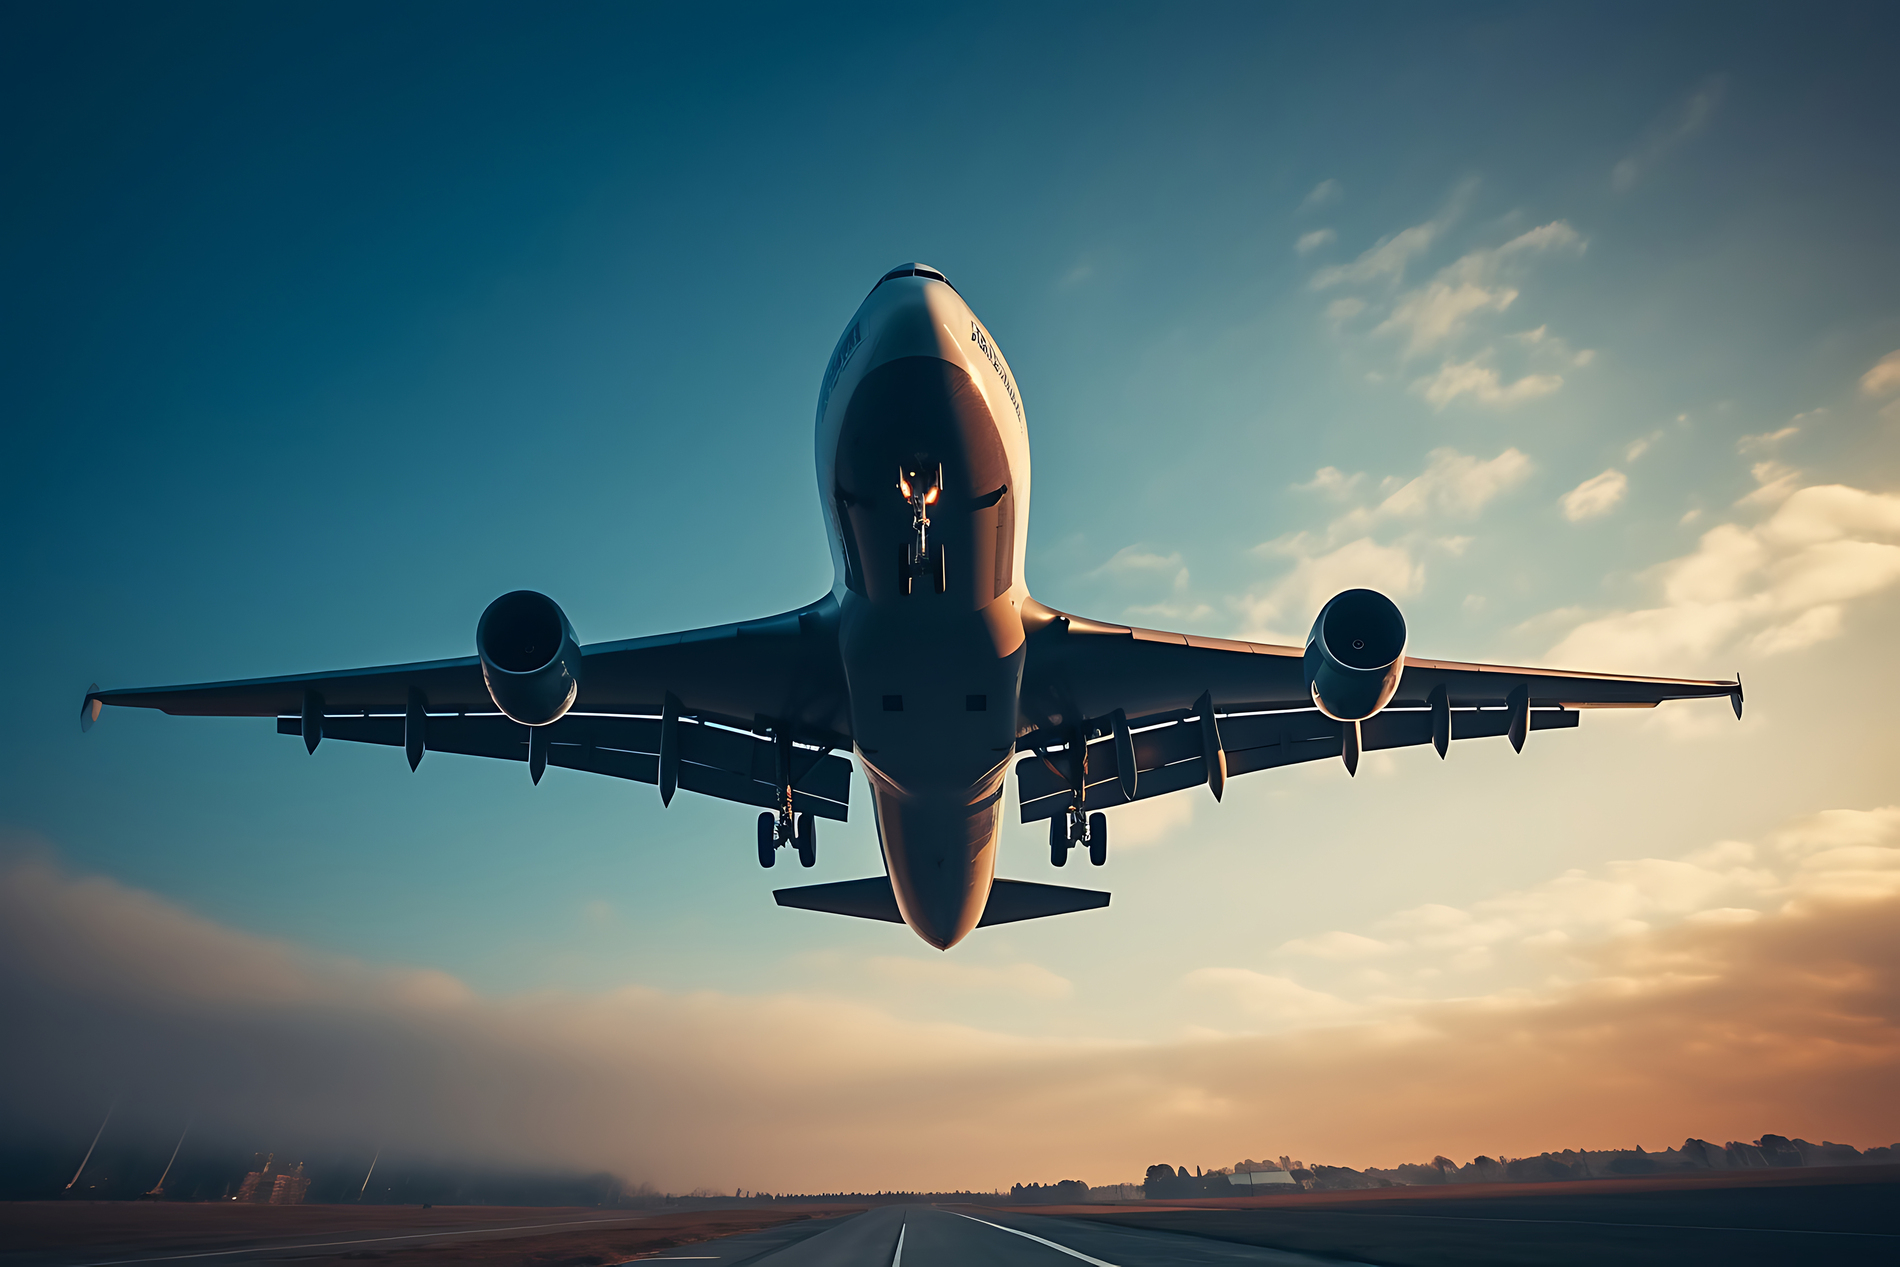
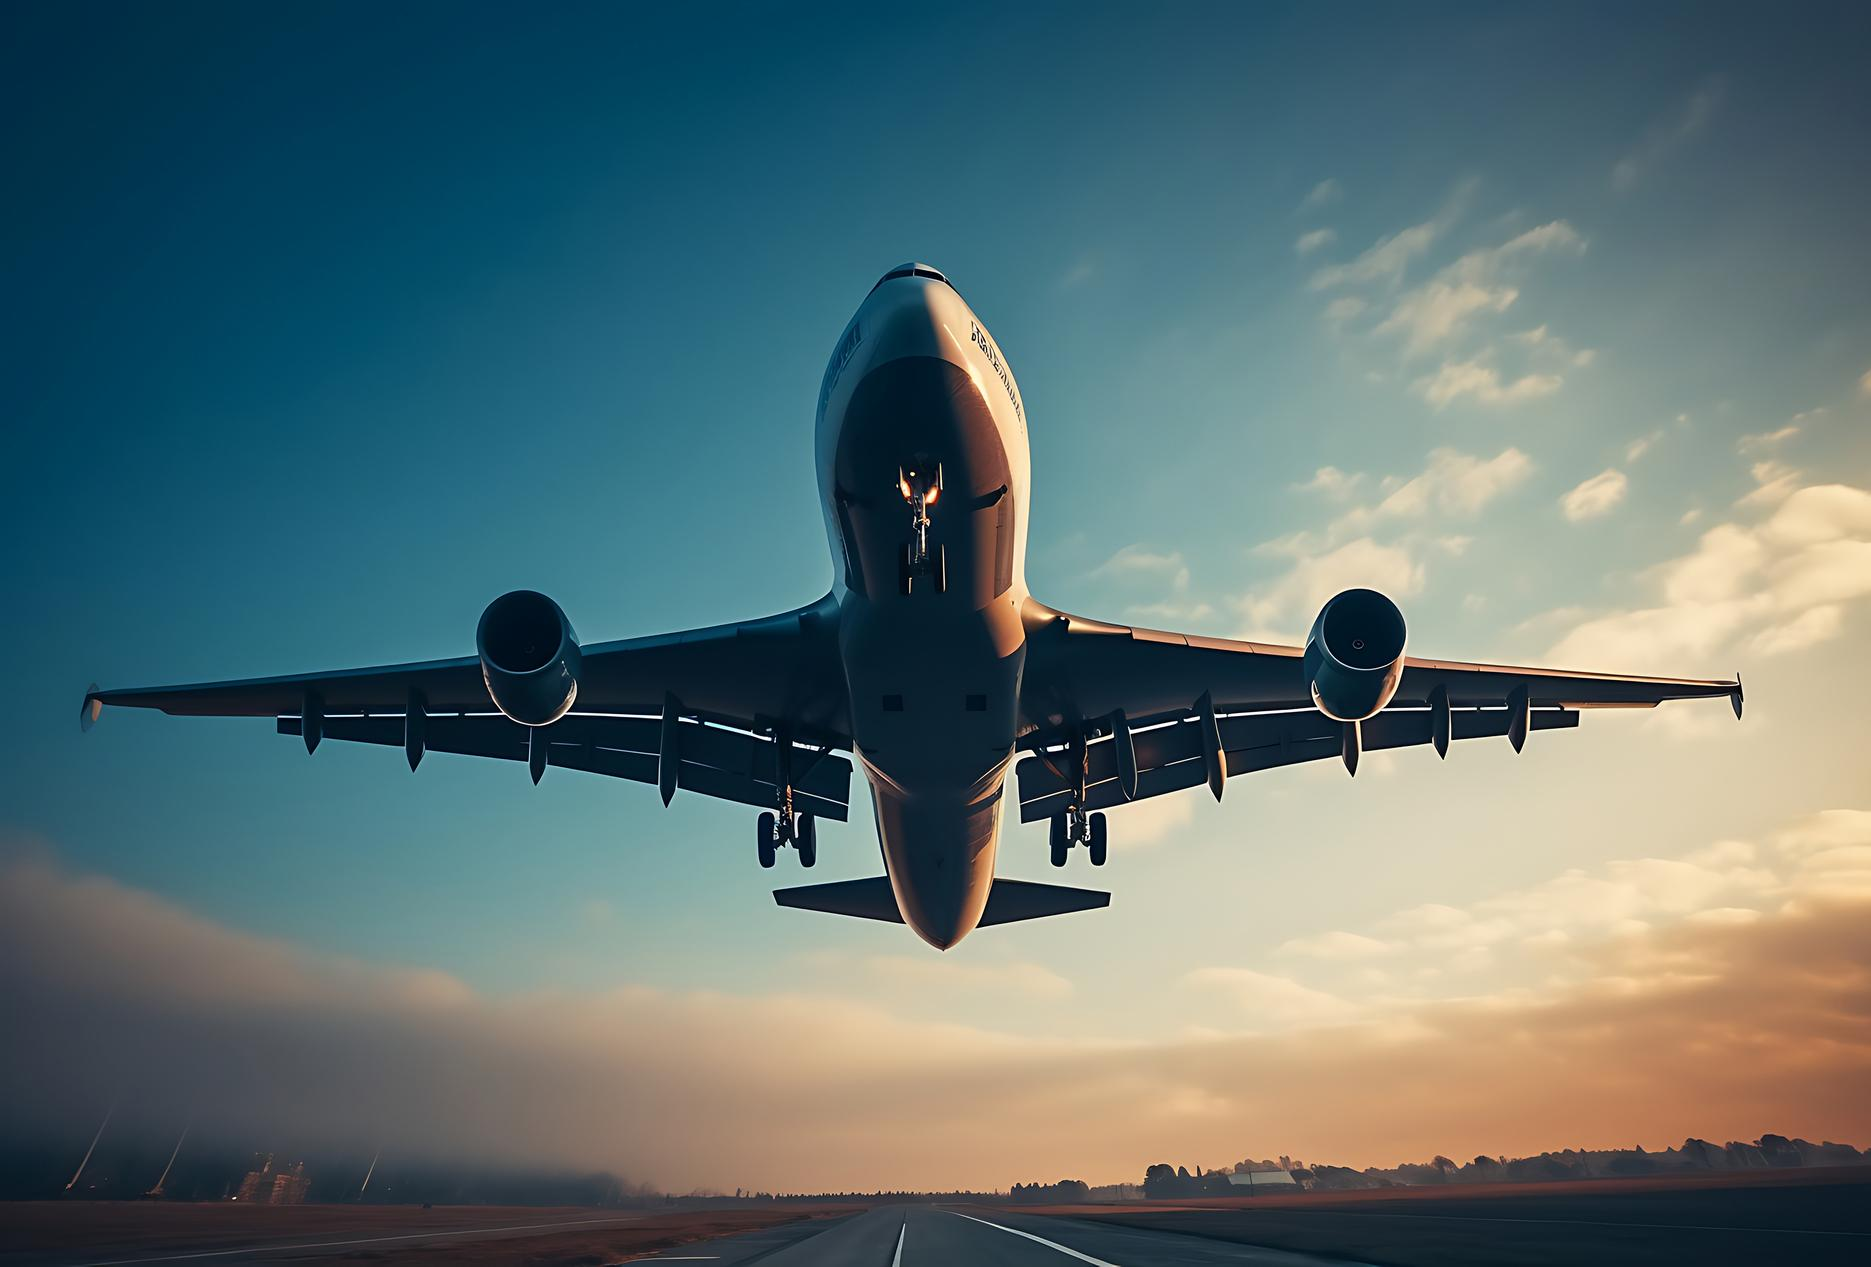
Pequeña modificacion margen derecho foto inicio y divisor titulo-boton

diff --git a/css/styles.css b/css/styles.css
@@ -114,7 +114,7 @@ hr {
 
 h6, .h6, h5, .h5, h4, .h4, h3, .h3, h2, .h2, h1, .h1 {
   margin-top: 0;
-  margin-bottom: 0.5rem;
+  margin-bottom: -0.5rem;
   font-family: "Merriweather Sans", -apple-system, BlinkMacSystemFont, "Segoe UI", Roboto, "Helvetica Neue", Arial, "Noto Sans", sans-serif, "Apple Color Emoji", "Segoe UI Emoji", "Segoe UI Symbol", "Noto Color Emoji";
   font-weight: 500;
   line-height: 1.2;
